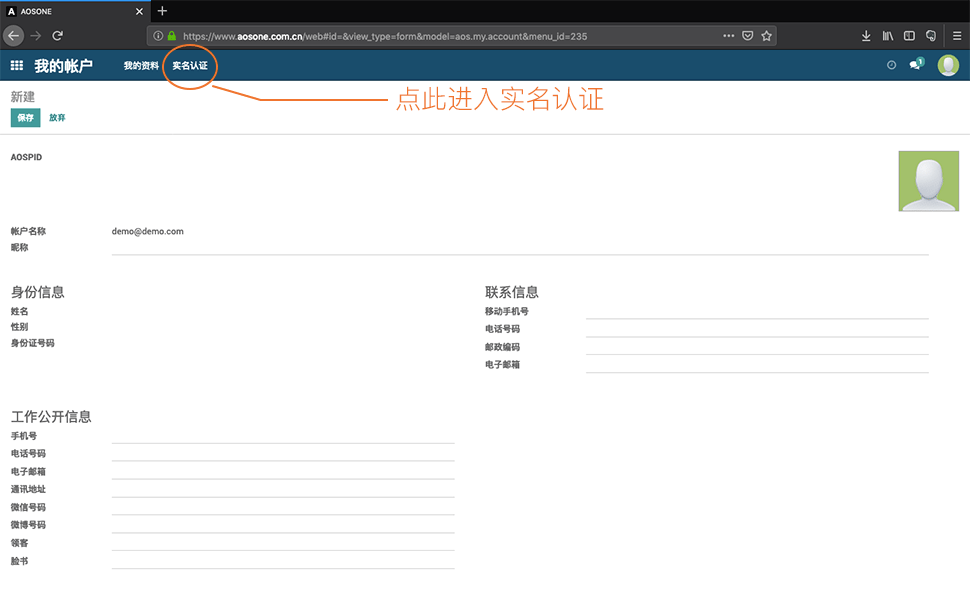
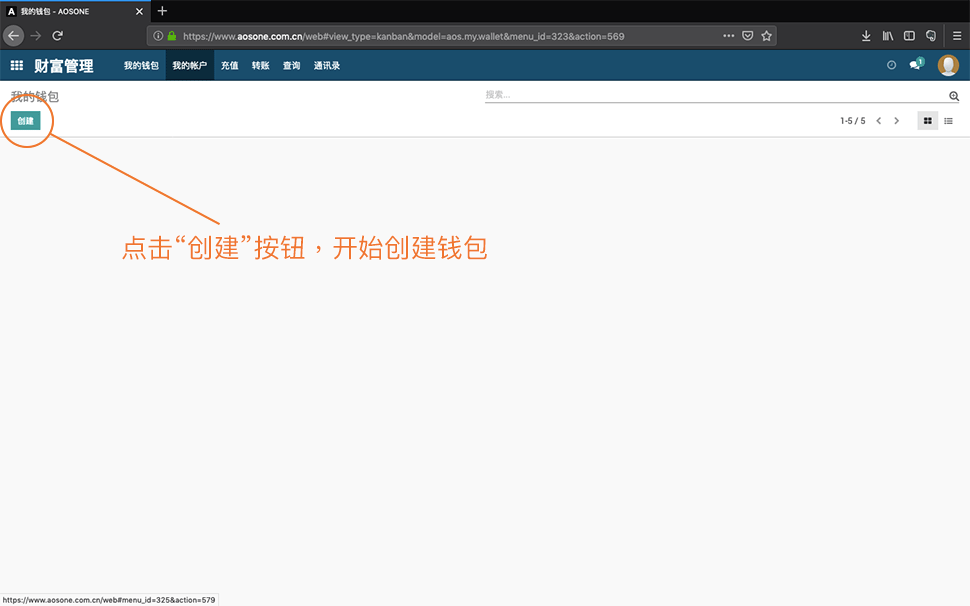
GitBook: [1.0.1] 3 pages and 14 assets modified

diff --git a/ruzhupingtai/ge-ren-ru-zhu-cheng-xu/zhu-ce-aos-qu-kuai-lian-zhang-hao.md b/ruzhupingtai/ge-ren-ru-zhu-cheng-xu/zhu-ce-aos-qu-kuai-lian-zhang-hao.md
@@ -4,27 +4,45 @@ description: 一定要保护好你的私钥。
 
 # 注册AOS区块链账号
 
-### 在确认已经在AOSONE平台上完成了实名注册之后，开始注册你的第一个TBK账户。
+1. 进入“财富管理”
 
-### 注册方式一：通过 aosone.com.cn 平台注册
+![](../../.gitbook/assets/1%20%281%29.png)
 
-第一步  创建 AOS 区块链账户。
+2. 点击“创建”，开始创建钱包
 
-第二步  完成实名认证程序。
+![](../../.gitbook/assets/2.png)
 
-第三步  创建区块链帐号。
+3. 点击“付款”，进入支付页面
 
-第四步  实名注册区块链账户。
+![](../../.gitbook/assets/3%20%281%29.png)
 
-### 注册方式二：使用Gatter桌面客户端注册帐户
+4. 使用微信“扫一扫”完成付款，单击“已付款”按钮
 
-第一步  下载安装gatter
+![](../../.gitbook/assets/4%20%281%29.png)
 
-第二步  注册gatter帐户
+5. 点击“编辑”按钮，设置密码
 
-第三步  创建秘钥对或者导入已有私钥
+![](../../.gitbook/assets/5.png)
 
-第四步  创建账户
+6. 密码至少8位，数字与字母组合密码
+
+![](../../.gitbook/assets/6.png)
+
+7. 保存系统生成的“秘钥”
+
+![](../../.gitbook/assets/7.png)
+
+7-2. 确认已保存好“秘钥”后，点击“已存秘钥”按钮
+
+![](../../.gitbook/assets/7-2.png)
+
+8. 设置自己的12位账户名
+
+![](../../.gitbook/assets/8.png)
+
+9. 账户开通成功。
+
+![](../../.gitbook/assets/9.png)
 
 
 

diff --git a/ruzhupingtai/ge-ren-ru-zhu-cheng-xu/zhu-ce-aos-ge-ren-zhang-hu.md b/ruzhupingtai/ge-ren-ru-zhu-cheng-xu/zhu-ce-aos-ge-ren-zhang-hu.md
@@ -1,18 +1,18 @@
 # 注册AOS个人账户
 
-#### 登录AOSONE.COM.CN，进行帐户注册
+#### 登录[aosone.com.cn](https://www.aosone.com.cn/)，进行帐户注册
 
-![](../../.gitbook/assets/6d83bd31-03b8-49e3-8690-0dac8f5bbff4.png)
+#### 1. 点击“登录”按钮：
 
-#### 登录帐户进行实名认证。实名认证需要验证你的手机号与身份证号是否一致，请务必使用与备案身份一致的手机号进行实名认证。
+![](../../.gitbook/assets/ge-ren-zhu-ce-1.png)
 
-![](../../.gitbook/assets/3a643232-eeb1-432d-be4e-ec502f3378f7-2.png)
+2.  点击“还没有账户？”：
 
-![](../../.gitbook/assets/80fa472a-d128-4fb0-854b-77683d2bc2d6%20%281%29.png)
+![](../../.gitbook/assets/ge-ren-zhu-ce-2.png)
 
-![](../../.gitbook/assets/4c40ba76-ad45-44b7-b952-e70038ec75c7.png)
+3. 填写资料，提交注册：
 
-注意：此界面开始进行备案，请严格按照说明进行。
+![](../../.gitbook/assets/ge-ren-zhu-ce-3.png)
 
-![](../../.gitbook/assets/478a8643f178475a9646121da6eda61d-fu-ben.png)
+4. 完成个人账户注册。完成“[实名认证](https://help.tokensbank.com.cn/~/drafts/-LaF1ZF9F_f1d6OMxOV0/primary/ruzhupingtai/ge-ren-ru-zhu-cheng-xu/ge-ren-shi-ming-ren-zheng)”后，激活账户。
 

diff --git a/ruzhupingtai/ge-ren-ru-zhu-cheng-xu/ge-ren-shi-ming-ren-zheng.md b/ruzhupingtai/ge-ren-ru-zhu-cheng-xu/ge-ren-shi-ming-ren-zheng.md
@@ -10,7 +10,7 @@ description: 个人实名认证操作步骤
 
 2. 进入“实名认证”：
 
-![](../../.gitbook/assets/2.png)
+![](../../.gitbook/assets/2%20%281%29.png)
 
 3. 填写实名资料后提交：
 
